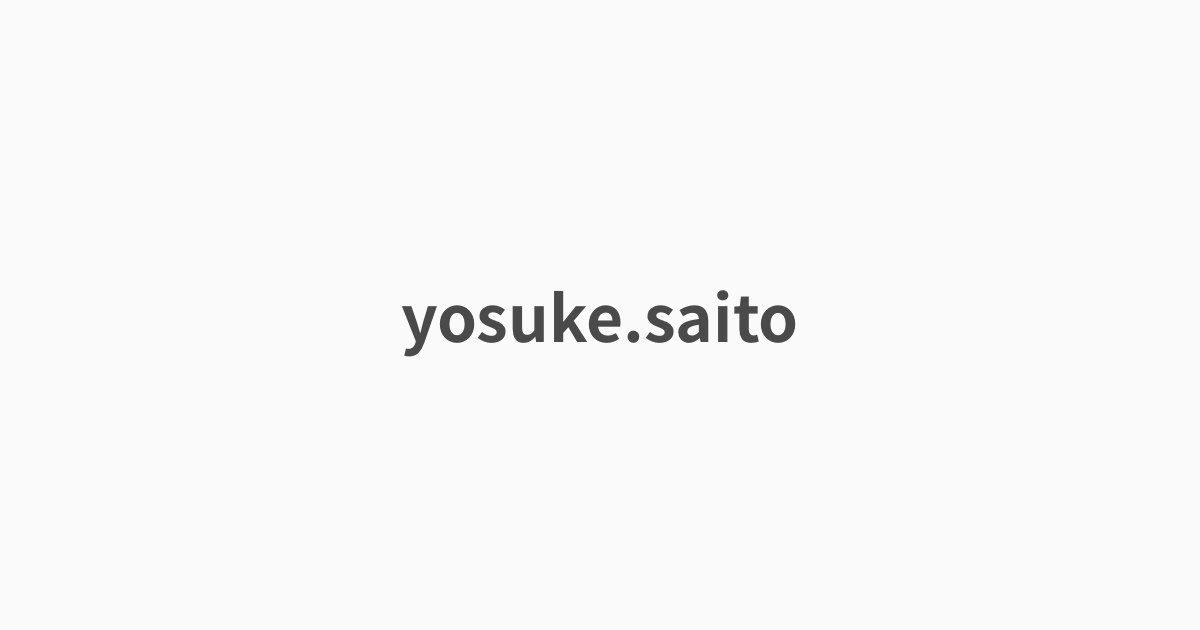
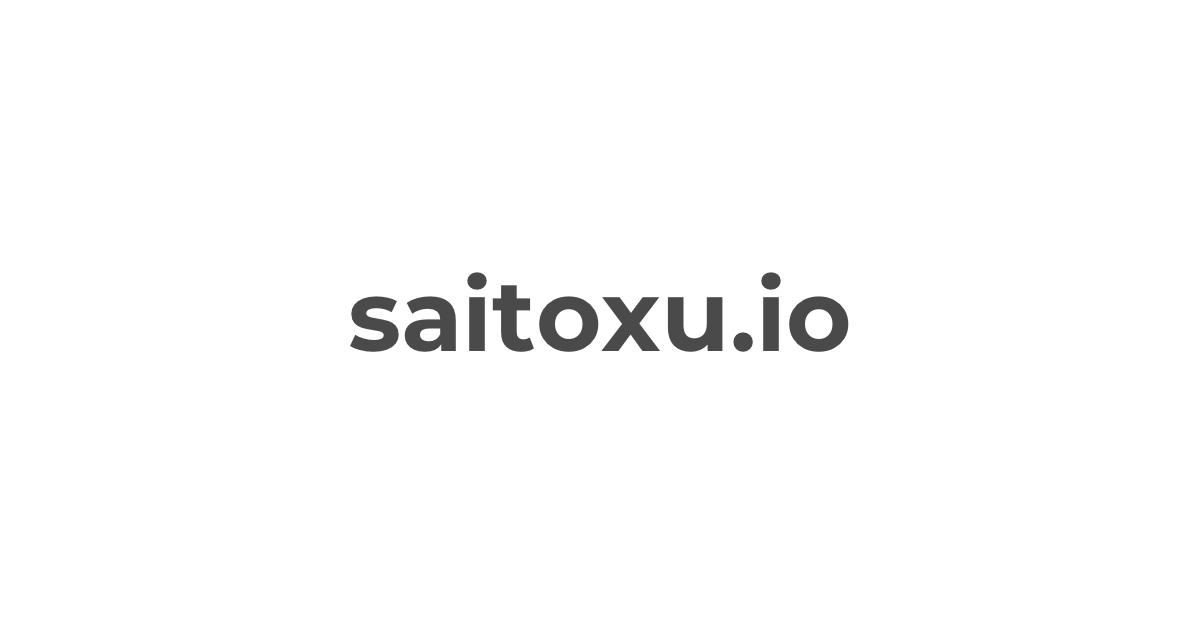
faviconとopg変更

Changed region(s): [[0.2775, 0.4222, 0.7092, 0.573]]

diff --git a/gatsby-config.js b/gatsby-config.js
@@ -89,18 +89,18 @@ module.exports = {
       },
     },
     // `gatsby-plugin-feed`,
-    // {
-    //   resolve: `gatsby-plugin-manifest`,
-    //   options: {
-    //     name: `saitoxu.io`,
-    //     short_name: `saitoxu.io`,
-    //     start_url: `/`,
-    //     background_color: `#ffffff`,
-    //     theme_color: `#663399`,
-    //     display: `minimal-ui`,
-    //     icon: `content/assets/gatsby-icon.png`,
-    //   },
-    // },
+    {
+      resolve: `gatsby-plugin-manifest`,
+      options: {
+        name: `saitoxu.io`,
+        short_name: `saitoxu.io`,
+        start_url: `/`,
+        background_color: `#ffffff`,
+        theme_color: `#663399`,
+        display: `minimal-ui`,
+        icon: `content/assets/icon.png`,
+      },
+    },
     `gatsby-plugin-react-helmet`,
     {
       resolve: `gatsby-plugin-typography`,
